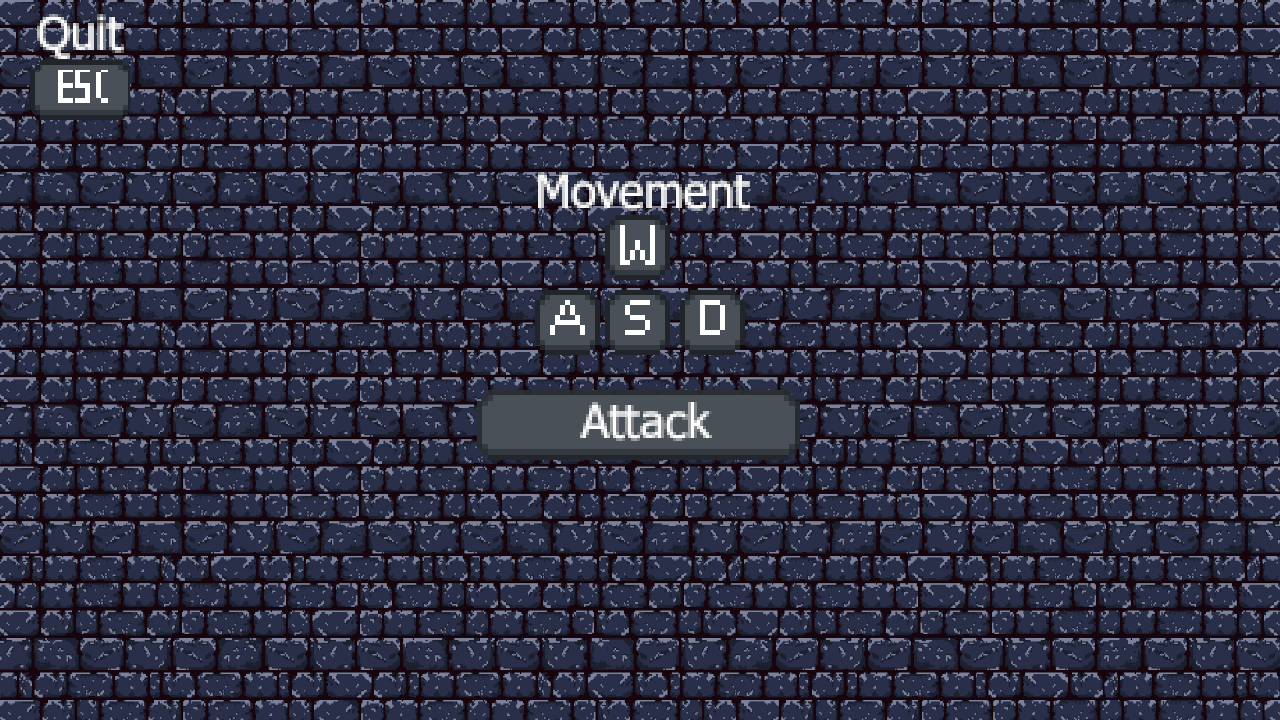
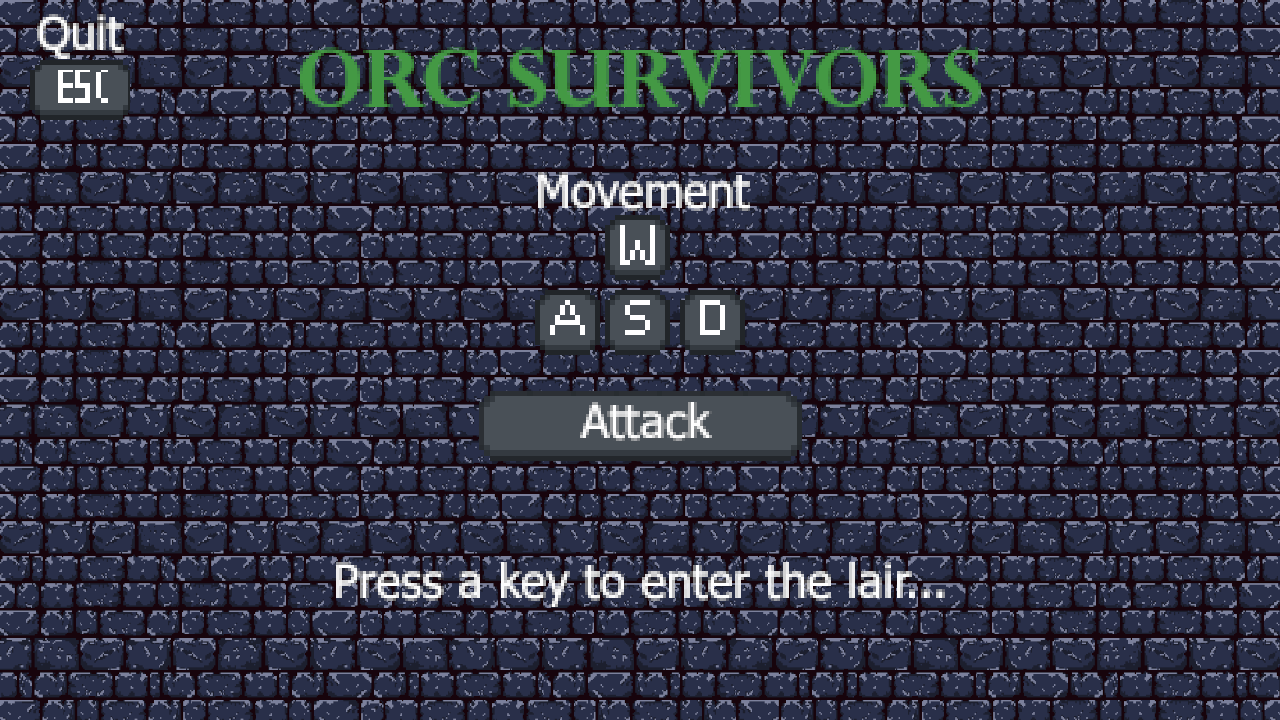
worked on Menu and lose screens

Changed region(s): [[0.2188, 0.0611, 0.7812, 0.1528], [0.25, 0.7639, 0.75, 0.8556]]

diff --git a/main.py b/main.py
@@ -25,6 +25,7 @@ def main():
     play_game = False
 
     title_background = pygame.image.load("./backgrounds/menu_screen.png").convert()
+    death_screen = pygame.image.load("./backgrounds/death_screen.png").convert()
 
     player = pygame.image.load("player.png").convert_alpha()
 
@@ -47,6 +48,8 @@ def main():
 
     # Font for timer
     font = pygame.font.SysFont("Arial", 36, bold=True)
+    remaining_sec = 0
+    remaining_ms = 0
 
     # Where enemies live
     objects = []
@@ -84,6 +87,11 @@ def main():
                         ):
                             state_input = GameState.PLAY
                             play_game = True
+                        if (
+                            pygame.key.get_pressed()[pygame.K_q]
+                            or pygame.key.get_pressed()[pygame.K_ESCAPE]
+                        ):
+                            pygame.quit()
                     screen.blit(title_background, (0, 0))
                     pygame.display.flip()
                     clock.tick(60)
@@ -167,7 +175,7 @@ def main():
 
                     # Player damaged
                     for o in objects:
-                        if o.rect.colliderect(p.hitbox) and damage_tick == 0:
+                        if o.hitbox.colliderect(p.hitbox) and damage_tick == 0:
                             p.take_damage()
                             damaged = True
                             damage_tick = 1
@@ -176,7 +184,7 @@ def main():
                     if p.arc_active:
                         p.draw_arc(screen)
                         for o in objects:
-                            if o.rect.colliderect(p.attack_hitbox):
+                            if o.hitbox.colliderect(p.attack_hitbox):
                                 if o not in p.hit_enemies:
                                     o.take_damage()
                                     p.hit_enemies.append(o)
@@ -229,6 +237,7 @@ def main():
                     if p.health <= 0:
                         print("You died!")
                         state_input = GameState.LOSE
+
                         break
 
                     # Draw
@@ -238,6 +247,8 @@ def main():
                         screen, (255, 0, 0), p.hitbox.clamp(p.pos), width=1
                     )
                     p.hitbox.center = p.pos.center
+                    for o in objects:
+                        o.hitbox.center = o.rect.center
 
                     # health bar
                     health_ratio = p.health / p.max_health
@@ -373,7 +384,30 @@ def main():
                             or pygame.key.get_pressed()[pygame.K_ESCAPE]
                         ):
                             pygame.quit()
-                    screen.blit(title_background, (0, 0))
+
+                    screen.blit(death_screen, (0, 0))
+                    # Draw Timer
+                    minutes = remaining_sec // 60
+                    seconds = remaining_sec % 60
+                    timer_text = f"{minutes:02d}:{seconds:02d}"
+                    timer_surface = font.render(timer_text, True, (255, 255, 255))
+                    timer_rect = timer_surface.get_rect()
+                    timer_rect.topright = (SCREEN_WIDTH - 20, 20)
+                    screen.blit(timer_surface, timer_rect)
+                    bg_rect = timer_rect.inflate(20, 10)
+                    pygame.draw.rect(screen, (0, 0, 0, 180), bg_rect)
+                    screen.blit(timer_surface, timer_rect)
+
+                    # Draw Score score_counter
+                    score_text = f"Score: {score_counter}"
+                    score_surface = font.render(score_text, True, (255, 255, 255))
+                    score_rect = score_surface.get_rect()
+                    score_rect.topright = (SCREEN_WIDTH - 140, 20)
+                    screen.blit(score_surface, score_rect)
+                    bg_score = score_rect.inflate(20, 10)
+                    pygame.draw.rect(screen, (0, 0, 0, 180), bg_score)
+                    screen.blit(score_surface, score_rect)
+
                     pygame.display.flip()
                     clock.tick(60)
                     if play_game:
@@ -395,7 +429,31 @@ def main():
                             or pygame.key.get_pressed()[pygame.K_ESCAPE]
                         ):
                             pygame.quit()
+
                     screen.blit(title_background, (0, 0))
+
+                    # Draw Timer
+                    minutes = remaining_sec // 60
+                    seconds = remaining_sec % 60
+                    timer_text = f"{minutes:02d}:{seconds:02d}"
+                    timer_surface = font.render(timer_text, True, (255, 255, 255))
+                    timer_rect = timer_surface.get_rect()
+                    timer_rect.topright = (SCREEN_WIDTH - 20, 20)
+                    screen.blit(timer_surface, timer_rect)
+                    bg_rect = timer_rect.inflate(20, 10)
+                    pygame.draw.rect(screen, (0, 0, 0, 180), bg_rect)
+                    screen.blit(timer_surface, timer_rect)
+
+                    # Draw Score score_counter
+                    score_text = f"Score: {score_counter}"
+                    score_surface = font.render(score_text, True, (255, 255, 255))
+                    score_rect = score_surface.get_rect()
+                    score_rect.topright = (SCREEN_WIDTH - 140, 20)
+                    screen.blit(score_surface, score_rect)
+                    bg_score = score_rect.inflate(20, 10)
+                    pygame.draw.rect(screen, (0, 0, 0, 180), bg_score)
+                    screen.blit(score_surface, score_rect)
+
                     pygame.display.flip()
                     clock.tick(60)
                     if play_game:

diff --git a/abilities.py b/abilities.py
@@ -99,7 +99,7 @@ class Flail:
         self.pos.centery = player.hitbox.centery + self.radius * math.sin(self.angle)
 
         for enemy in enemies:
-            if self.pos.colliderect(enemy.rect):
+            if self.pos.colliderect(enemy.hitbox):
                 enemy.take_damage(2)
                 return True
 
@@ -111,7 +111,7 @@ class Flail:
 
 class Axe:
     def __init__(self, start_x, start_y, direction, speed=5):
-        self.pos = pygame.Rect(0, 0, 12, 6)
+        self.pos = pygame.Rect(0, 0, 65, 70)
         self.pos.center = (start_x, start_y)
 
         self.image = pygame.image.load("./items/axe.png").convert_alpha()
@@ -129,7 +129,7 @@ class Axe:
             self.pos.y -= self.speed
 
         for enemy in enemies:
-            if self.pos.colliderect(enemy.rect):
+            if self.pos.colliderect(enemy.hitbox):
                 enemy.take_damage(4)
                 return True
 
@@ -182,7 +182,7 @@ class Bolt:
         self.age += 1
 
         for enemy in enemies:
-            if self.pos.colliderect(enemy.rect):
+            if self.pos.colliderect(enemy.hitbox):
                 enemy.take_damage(1)
                 return True
 

diff --git a/classes.py b/classes.py
@@ -178,6 +178,7 @@ class EasyEnemy(Enemy):
         self.image = pygame.image.load(self.get_random_sprite()).convert_alpha()
         self.pos = [0.0, 0.0]
         self.rect = self.image.get_rect()
+        self.hitbox = (self.image.get_rect()).scale_by(0.55, 0.75)
 
     def get_random_sprite(self):
         path_to_sprite = os.path.abspath("enemies/easy/")
@@ -195,6 +196,7 @@ class MediumEnemy(Enemy):
         self.image = pygame.image.load(self.get_random_sprite()).convert_alpha()
         self.pos = [0.0, 0.0]
         self.rect = self.image.get_rect()
+        self.hitbox = (self.image.get_rect()).scale_by(0.55, 0.75)
 
     def get_random_sprite(self):
         path_to_sprite = os.path.abspath("enemies/medium/")
@@ -212,6 +214,7 @@ class HardEnemy(Enemy):
         self.image = pygame.image.load(self.get_random_sprite()).convert_alpha()
         self.pos = [0.0, 0.0]
         self.rect = self.image.get_rect()
+        self.hitbox = (self.image.get_rect()).scale_by(0.55, 0.75)
 
     def get_random_sprite(self):
         path_to_sprite = os.path.abspath("enemies/hard/")
